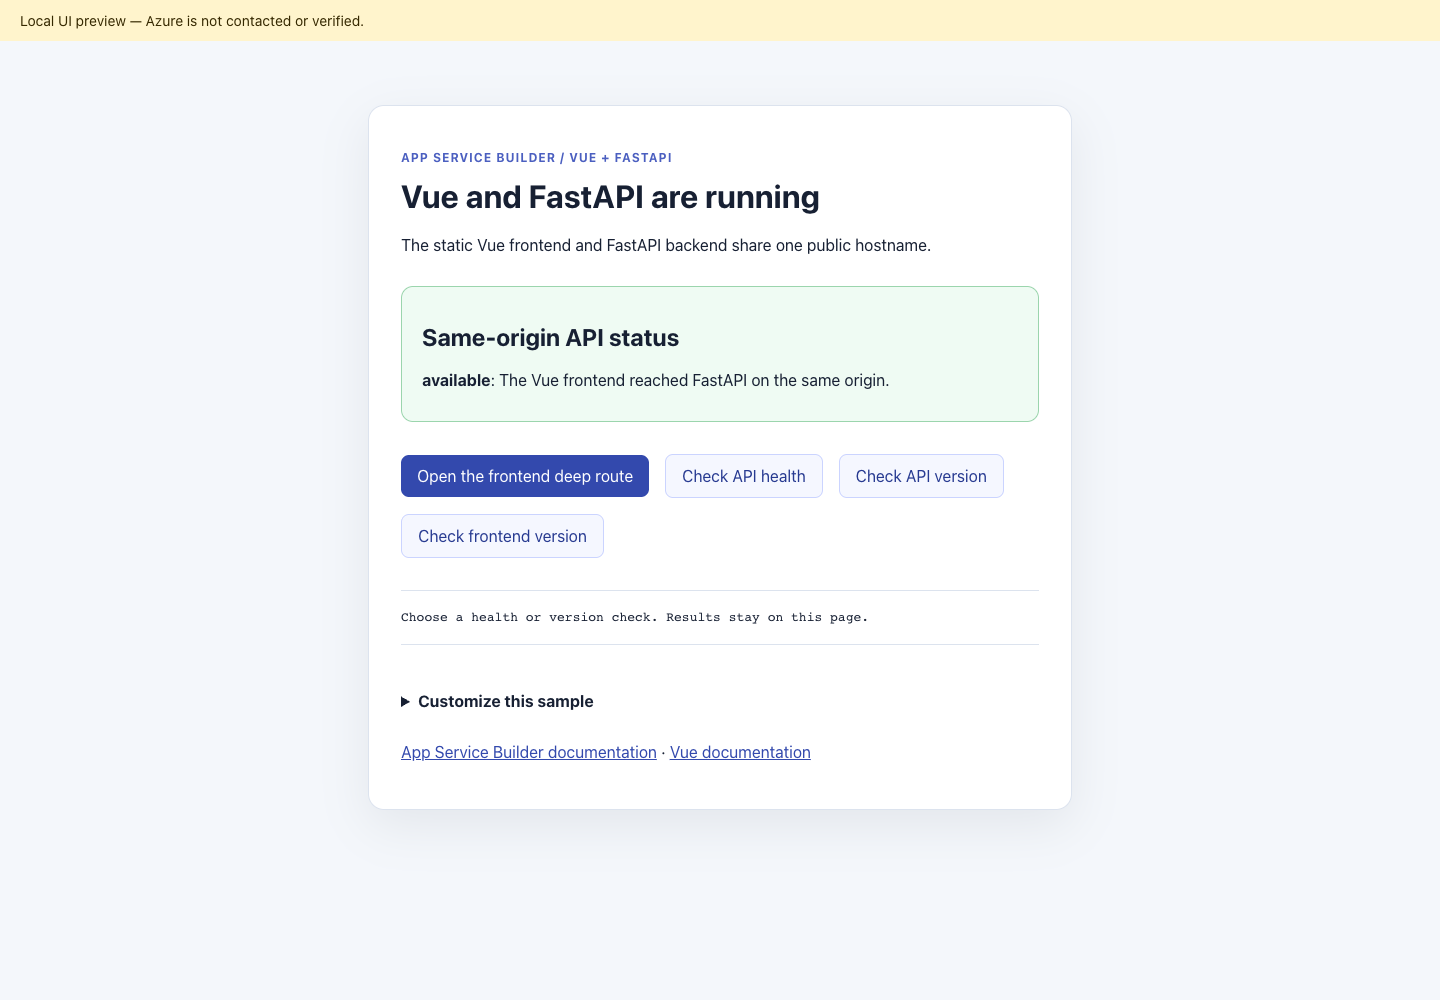
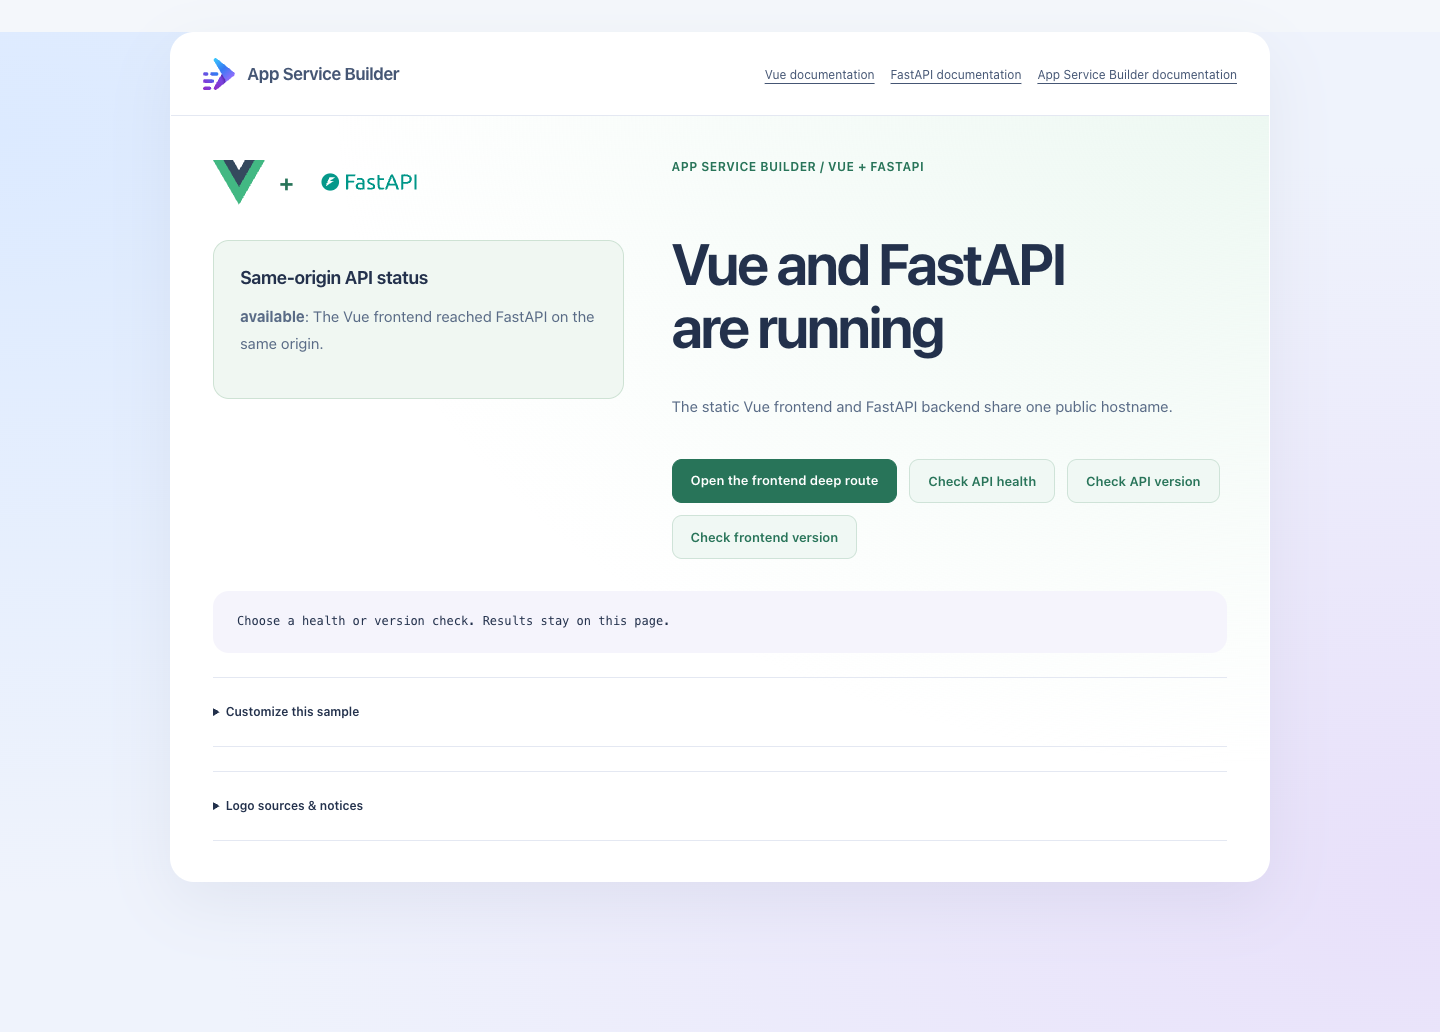
Apply approved language-family sample styling
Preserve sample interactions, inline health checks and honest customization guidance; refresh the locally rendered README screenshot.

diff --git a/web/public/brand/family.v1.css b/web/public/brand/family.v1.css
@@ -1,0 +1,35 @@
+html body{margin:0;min-height:100vh;background:radial-gradient(ellipse at 0 10%,#dceaff,transparent 60%),radial-gradient(ellipse at 100% 85%,#e8e0fa,transparent 60%),#eff3fc;color:#23314c;font-family:"Segoe UI",system-ui,sans-serif;font-size:15px;--accent:#287459;--line:#e4e8f2}
+main.sample-sheet{width:min(1100px,calc(100% - 64px));margin:32px auto;padding:0;background:#fff;border:1px solid #ffffffbd;border-radius:24px;box-shadow:0 22px 65px #3b487515;overflow:hidden}
+.sample-header{display:flex;align-items:center;justify-content:space-between;gap:24px;padding:25px 32px;border-bottom:1px solid var(--line)}
+.sample-brand{display:flex;align-items:center;gap:12px;font-size:17px;font-weight:650;letter-spacing:-.02em;color:#23314c;text-decoration:none}
+.sample-brand img{width:32px;height:32px;object-fit:contain}
+.sample-header nav{display:flex;flex-wrap:wrap;gap:16px;margin:0;font-size:12px}
+.sample-header a{color:#455674;text-underline-offset:4px}
+.sample-content{padding:40px 42px}
+.ecosystem-logo{display:flex;align-items:center;gap:14px;margin-bottom:24px;color:var(--accent);font-size:23px;font-weight:650;letter-spacing:-.03em}
+.ecosystem-logo img{width:52px;height:52px;object-fit:contain}
+.ecosystem-logo img.wordmark{width:124px;height:auto}
+.sample-content h1{font-size:clamp(32px,4.4vw,58px);line-height:1.09;letter-spacing:-.04em;font-weight:650;margin:0 0 20px;text-wrap:balance}
+.sample-content h2{font-size:18px;font-weight:650;letter-spacing:-.02em;margin:0 0 14px}
+.sample-content p{line-height:1.8;color:#596b86}
+.sample-content .eyebrow{color:var(--accent);font-size:12px;font-weight:650;letter-spacing:.04em;margin:0 0 14px}
+.sample-content nav{display:flex;flex-wrap:wrap;align-items:center;gap:12px;margin:24px 0 16px}
+.sample-content a{color:var(--accent);text-underline-offset:4px}
+.sample-content button,.sample-content .button{min-height:44px;padding:12px 18px;border:1px solid #cfe3d8;border-radius:10px;background:#f0f8f4;color:var(--accent);font:inherit;font-size:13px;font-weight:600;text-decoration:none;cursor:pointer}
+.sample-content .button{background:var(--accent);color:#fff;border-color:var(--accent)}
+.sample-content button:hover,.sample-content .button:hover{filter:brightness(.92)}
+.sample-content button:disabled{opacity:.6;cursor:wait}
+.sample-content details{margin-top:24px;padding:12px 0;border-block:1px solid var(--line);font-size:12px}
+.sample-content summary{cursor:pointer;font-weight:600;min-height:44px;align-content:center}
+.sample-content code{font-size:12px;overflow-wrap:anywhere}
+.sample-content .documentation{font-size:12px;justify-content:space-between}
+a:focus-visible,button:focus-visible,summary:focus-visible{outline:3px solid #7660d0;outline-offset:4px}
+.sample-content{display:grid;grid-template-columns:minmax(0,.85fr) minmax(0,1.15fr);column-gap:48px;background:radial-gradient(ellipse at 100% 0,#edf8f2,transparent 60%),#fff}
+.sample-content>*{grid-column:2}
+.sample-content>.ecosystem-logo{grid-column:1;grid-row:1;align-self:start}
+.sample-content>.api-card{grid-column:1;grid-row:2/6;align-self:start;margin:8px 0 0;padding:26px;background:#f1f6fc;border:1px solid #dbe5f2;border-radius:16px}
+.sample-content>.api-card[data-state=available]{background:#f0f7f2;border-color:#cee2d4}
+.sample-content>.api-card[data-state=error]{background:#fff1f1;border-color:#e8c6c6}
+.sample-content>.inspection{grid-column:1/-1;margin:16px 0 0;padding:20px 24px;background:#f5f4fc;border:0;border-radius:16px;font:12px/1.8 Consolas,monospace;white-space:pre-wrap;overflow-wrap:anywhere}
+.sample-content>details,.sample-content>.documentation{grid-column:1/-1}
+@media(max-width:650px){main.sample-sheet{width:calc(100% - 30px);margin:18px auto;border-radius:19px}.sample-header{padding:22px;flex-wrap:wrap;gap:18px}.sample-header nav{width:100%;gap:12px;font-size:11px}.sample-content{display:block;padding:32px 22px}.sample-content h1{font-size:36px}.sample-content nav{align-items:stretch;flex-direction:row}.sample-content .documentation{gap:14px}.sample-content>.api-card{margin:24px 0}.ecosystem-logo{flex-wrap:wrap}}

diff --git a/web/src/views/Home.vue b/web/src/views/Home.vue
@@ -52,7 +52,17 @@ onBeforeUnmount(() => controller.abort())
 </script>
 
 <template>
-  <main>
+  <main class="sample-sheet">
+    <header class="sample-header">
+      <RouterLink class="sample-brand" to="/"><img src="/brand/builder.svg" alt="" width="32" height="32">App Service Builder</RouterLink>
+      <nav aria-label="Documentation">
+        <a href="https://vuejs.org/guide/introduction.html">Vue documentation</a>
+        <a href="https://fastapi.tiangolo.com/">FastAPI documentation</a>
+        <a href="https://builder.appservice.azure.com/docs/">App Service Builder documentation</a>
+      </nav>
+    </header>
+    <div class="sample-content">
+    <div class="ecosystem-logo"><img src="/brand/vue.svg" alt="Vue" width="52" height="52"><span>+</span><img class="wordmark" src="/brand/fastapi.svg" alt="FastAPI" width="124" height="52"></div>
     <p class="eyebrow">App Service Builder / Vue + FastAPI</p>
     <h1>Vue and FastAPI are running</h1>
     <p>The static Vue frontend and FastAPI backend share one public hostname.</p>
@@ -73,8 +83,17 @@ onBeforeUnmount(() => controller.abort())
     <pre class="inspection" role="status">{{ inspection }}</pre>
     <details>
       <summary>Customize this sample</summary>
-      <p>Edit <code>web/src/views/Home.vue</code> in your own fork to change this page. Edit <code>api/main.py</code> to change the API response. Rebuild, test, commit and redeploy your fork; this page does not edit GitHub.</p>
+      <p>Edit <code>web/src/views/Home.vue</code> in your own fork to change this page and
+        <code> web/public/brand/family.v1.css</code> for its styles. Edit <code>api/main.py</code>
+        to change the API response. Rebuild, test, commit and redeploy your fork; this page does not edit GitHub.</p>
     </details>
-    <p><a href="https://builder.appservice.azure.com/docs/">App Service Builder documentation</a> · <a href="https://vuejs.org/guide/introduction.html">Vue documentation</a></p>
+    <details>
+      <summary>Logo sources &amp; notices</summary>
+      <p>Unmodified <a href="https://vuejs.org/">Vue artwork</a> and
+        <a href="https://fastapi.tiangolo.com/">FastAPI artwork</a> identify this stack.
+        Vue and FastAPI are trademarks of their respective owners. App Service Builder
+        uses its supplied official mark. No endorsement implied.</p>
+    </details>
+    </div>
   </main>
 </template>

diff --git a/web/index.html b/web/index.html
@@ -8,6 +8,7 @@
       content="A Vue frontend and FastAPI API sharing one hostname with Azure App Service Builder."
     />
     <title>App Service Builder: Vue + FastAPI sample</title>
+    <link rel="stylesheet" href="/brand/family.v1.css" />
   </head>
   <body>
     <div id="app"></div>

diff --git a/README.md b/README.md
@@ -4,13 +4,27 @@
 
 ![Vue root page with same-origin status, in-page health and version controls, and customization help, rendered with the real local FastAPI backend](docs/images/sample.png)
 
-Rendered locally from the production Vue build with the real FastAPI backend
+**LOCAL — Microsoft Edge, 1440px desktop, root `/`.**
+Rendered from the production Vue build with the real FastAPI backend
 and the pinned Python dependencies. Local API, full-stack, and desktop/mobile
 browser checks passed; Azure deployment was not contacted or verified.
 The useful page is at `/`. Health and version checks display responses on the
 page rather than navigate to raw endpoints. Expand **Customize this sample**
 for the files to edit in your own fork. App Service Builder and Vue documentation
 are named separately.
+
+The Vue-led split daylight composition preserves same-origin status and
+health/version checks and Vue Router paths. Edit `web/src/views/Home.vue` for
+content and `web/public/brand/family.v1.css` for the visual family; baseline styles
+remain in `web/src/style.css`. FastAPI documentation is separate from Builder guidance.
+
+### Logo provenance
+
+`web/public/brand/builder.svg` is the supplied official App Service Builder mark.
+`vue.svg` is the unmodified [official Vue SVG](https://vuejs.org/logo.svg);
+`fastapi.svg` is the unmodified [official FastAPI SVG](https://fastapi.tiangolo.com/img/logo-margin/logo-teal.svg).
+Vue and FastAPI are trademarks of their respective owners. Logos identify the
+stack; no endorsement is implied.
 
 A standalone Vue frontend and FastAPI backend deployed as two components behind
 one public hostname with
